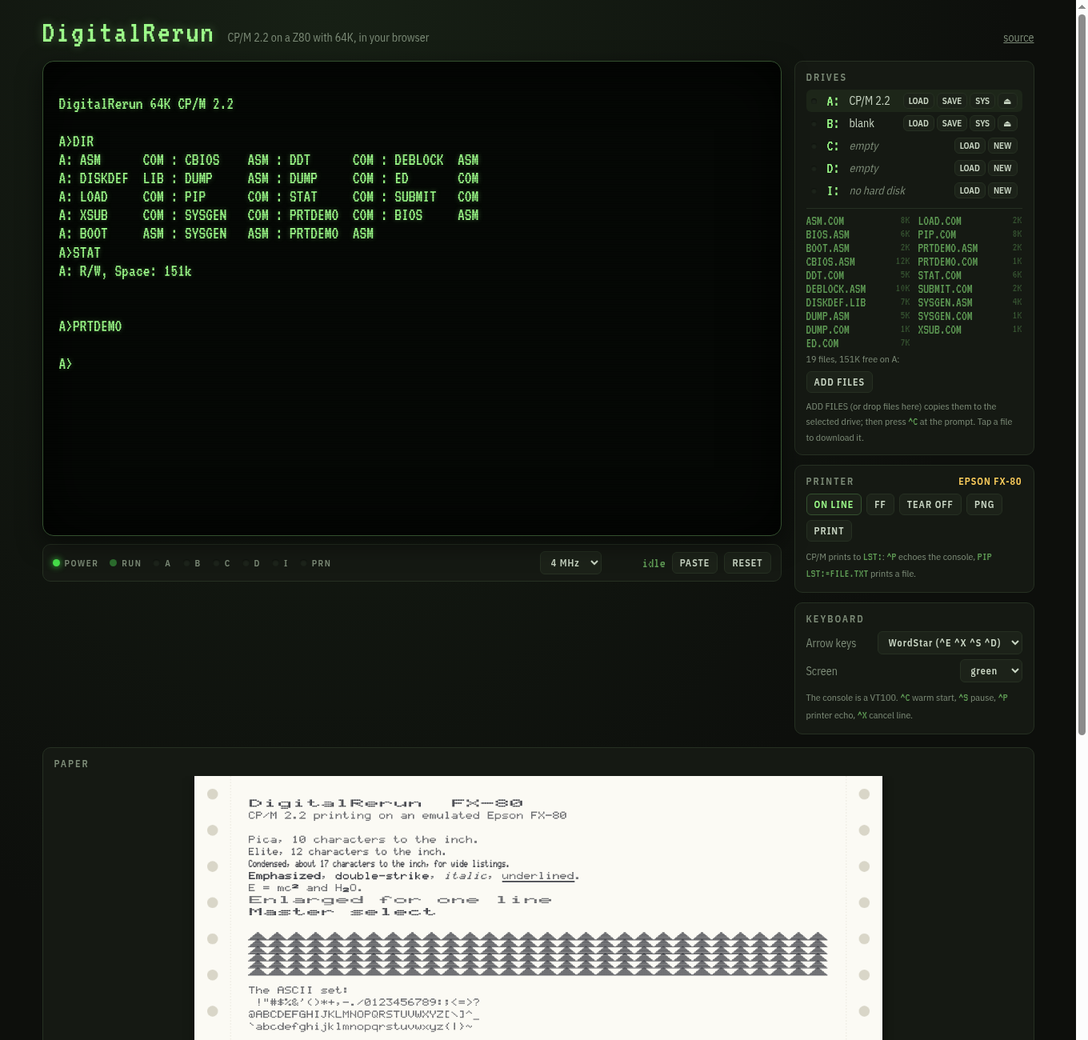
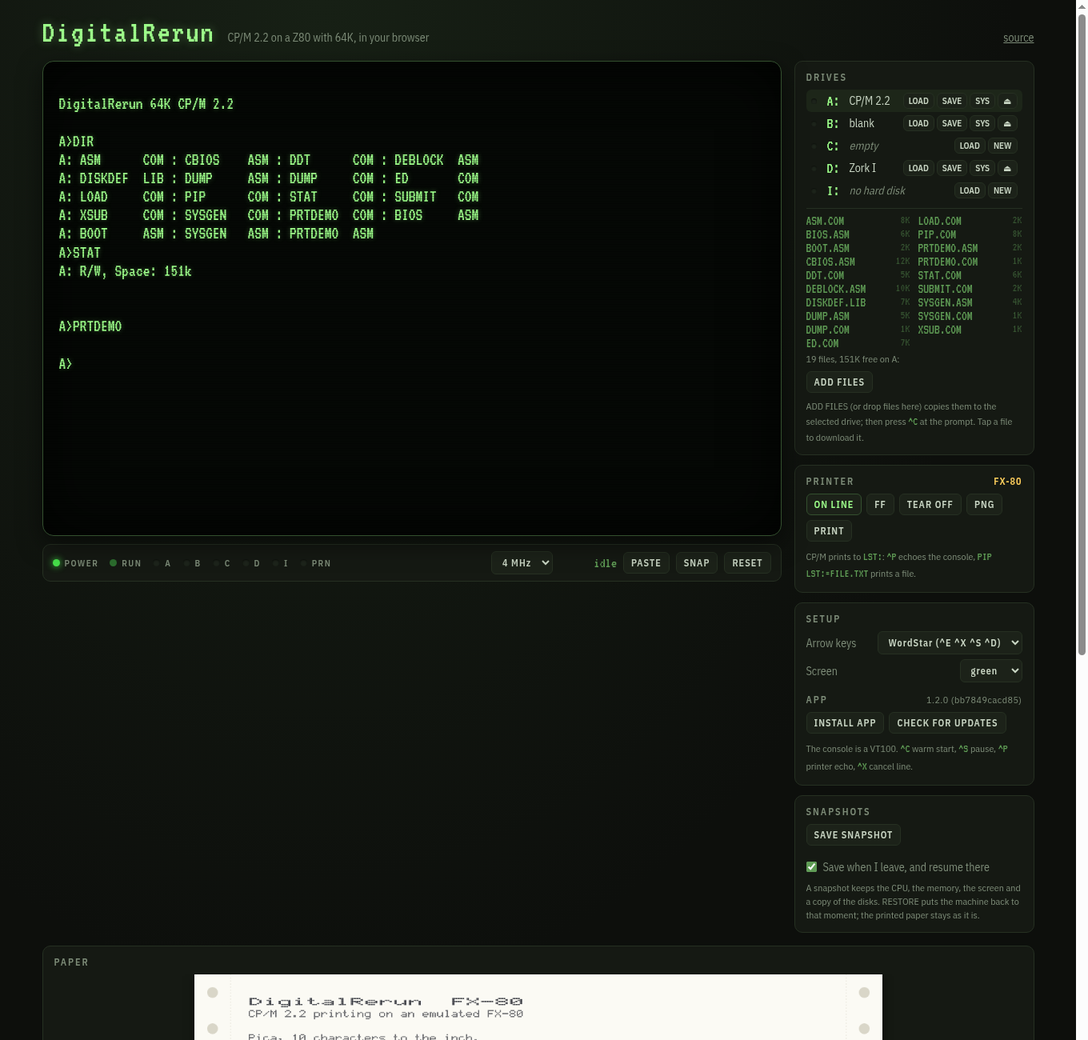
docs: a README that shows what DigitalRerun is, with every credit
A front page with badges, a boot-it-now link, what makes it special,
try-it steps, screenshots (desktop, Zork, phone), the technical detail,
and credits by name: Gary Kildall and Digital Research, DRDOS Inc. and
Bryan Sparks, Eric Smith, Gaby Chaudry, Molly Howell, Frank Cringle,
Tony Nicholson, Udo Munk, Michael Haardt, the authors of Zork and those
who freed it, Shawn Sijnstra, and the font designers; trademarks.

diff --git a/README.md b/README.md
@@ -1,65 +1,83 @@
+<div align="center">
+
 # DigitalRerun
 
+### CP/M 2.2, running again: a whole 1980s computer in your browser
+
 [![test](https://github.com/cstroie/DigitalRerun/actions/workflows/test.yml/badge.svg)](https://github.com/cstroie/DigitalRerun/actions/workflows/test.yml)
+[![live demo](https://img.shields.io/badge/live-cstroie.github.io%2FDigitalRerun-9dff8a?labelColor=0d0f0c)](https://cstroie.github.io/DigitalRerun/)
+[![licence: MIT](https://img.shields.io/badge/licence-MIT-ffcf5c?labelColor=0d0f0c)](LICENSE)
+![no dependencies](https://img.shields.io/badge/dependencies-none-c9d6c4?labelColor=0d0f0c)
+![offline PWA](https://img.shields.io/badge/PWA-works%20offline-c9d6c4?labelColor=0d0f0c)
 
-*Digital Research's CP/M, running again.* A CP/M 2.2 computer in the browser: a Z80 with 64K of RAM, the **original Digital Research CCP and BDOS**, booted by a real BIOS from the system tracks of an 8" disk, four floppy drives and a hard disk, a VT100 console and an Epson FX-80 printer that prints on fanfold paper. There are no dependencies and no build step.
+**[▶ Boot it now](https://cstroie.github.io/DigitalRerun/)**: no install, no sign-up, no download.
 
-**Live demo: https://cstroie.github.io/DigitalRerun/**
+![DigitalRerun: the CP/M prompt, the drives and a page from the dot matrix printer](docs/screenshot.png)
 
-![DigitalRerun running DIR and printing on the FX-80](docs/screenshot.png)
+</div>
 
-## Quick start
+DigitalRerun is a complete CP/M 2.2 machine that runs in a web page:
+- a **Z80 with 64K** of RAM;
+- **8" floppy drives** and a 4 MB hard disk;
+- a **VT100** console with a glowing phosphor screen;
+- an **FX-80 dot matrix printer** that strikes its dots onto fanfold paper, tractor holes and all.
 
-The machine boots from the CP/M 2.2 disk in A:. B: holds an empty disk.
+It is not a CP/M look-alike. The machine boots the **original CP/M 2.2 CCP and BDOS**, byte for byte as they shipped, read by a real BIOS from the system tracks of an 8" disk. Everything CP/M did then, it does here: `PIP`, `ED`, `ASM`, `DDT`, `SUBMIT`. You can even rebuild the BIOS inside CP/M with the 1980 recipe and boot the result.
+
+It is a single web page with no dependencies, no build step and no server. It installs as an app, works offline, and keeps your disks and your place between visits.
+
+## Why you'll like it
+
+- **The real thing.** The original CP/M 2.2 system, assembled from source by the project's own assembler into exactly the binaries on the 1979 distribution disk. A test checks every byte.
+- **Zork I comes with it.** The great underground empire is on drive D:, ready to play.
+- **A printer you can watch.** PRTDEMO shows off pica, elite, condensed, bold, italic, underlined, enlarged, super- and subscript text and bit-image graphics. Save the pages as PNG or PDF.
+- **Snapshots.** Freeze the whole machine (CPU, memory, screen and disks) and come back to that exact moment later, even mid-game. Leave the page and it resumes where you were.
+- **Bring your own software.** Drop `.COM` files or whole `.dsk` images onto a drive. Disks use the standard 8" format of cpmtools and z80pack.
+- **Hackable to the bone.** The BIOS, the boot loader and SYSGEN are short, commented 8080 sources on the boot disk. Change them with `ED`, assemble them with `ASM`, install them with `SYSGEN`.
+- **Phone friendly.** On a small screen the panels become tabs, ADD FILES replaces drag and drop, and the 80 columns stay readable.
+
+<div align="center">
+
+<img src="docs/zork.png" alt="Zork I running in DigitalRerun" width="640">
+&nbsp;
+<img src="docs/phone.png" alt="DigitalRerun on a phone" width="200">
+
+</div>
+
+## Try it
+
+Open **https://cstroie.github.io/DigitalRerun/**, click the screen and type:
 
 ```
-A>DIR
-A>STAT B:
-A>PIP B:=A:*.COM
-A>ED HELLO.ASM
-A>ASM HELLO
-A>LOAD HELLO
-A>PIP LST:=BOOT.ASM          (prints on the FX-80)
+A>DIR                        what is on the disk
+A>STAT B:                    room on the empty disk in B:
+A>PIP B:=A:*.COM             copy the programs to B:
+A>PRTDEMO                    print a page (see PAPER)
+A>D:                         to the game disk
+D>VEZZA ZORK1.Z3             and you are standing west of a white house
 ```
 
-The A: disk holds the DRI 2.2 tools: PIP, STAT, ED, ASM, LOAD, DDT, SUBMIT, XSUB and DUMP. It also holds SYSGEN and the sources of this machine's BIOS, loader and SYSGEN.
+A: holds the CP/M 2.2 tools (PIP, STAT, ED, ASM, LOAD, DDT, SUBMIT, XSUB, DUMP), SYSGEN, PRTDEMO, and the sources of the BIOS, the loader and SYSGEN. B: holds an empty disk, and D: holds Zork I.
 
-**D: holds Zork I.** Type `D:`, then `VEZZA ZORK1.Z3`. The game is Microsoft's 2025 MIT release of Infocom's Zork I, and [Vezza](https://gitlab.com/sijnstra1/vezza) is the Z-machine interpreter that runs it. Type `SAVE` and `RESTORE` in the game to keep your progress on the disk. The disk goes in D: the first time the app starts; after that D: is yours.
+`^C` warm-starts the system, `^S` pauses the output and `^P` echoes the console to the printer. In Zork, `SAVE` and `RESTORE` keep your progress on the disk.
 
-`^C` warm-starts the system, `^S` pauses output and `^P` echoes the console to the printer.
+## What's inside
 
-- **Drives.** ADD FILES (or dropping files on the DRIVES panel) copies them to the selected drive, then press `^C` so CP/M logs the disk in again. Click a file to download it. Text files (`.ASM`, `.TXT`, `.SUB` …) are converted between LF and CP/M's CR LF on the way. `LOAD` inserts a `.dsk` image, `SAVE` downloads one, and `NEW` inserts a blank, bootable disk. Disks are kept in the browser (IndexedDB) and are still there after a reload.
-- **Speed.** The CPU runs at 2, 4 (the default) or 8 MHz, or as fast as the browser allows. It costs nothing while CP/M waits for a key.
-- **Lights.** POWER, RUN (bright while working, dim while waiting for a key), one light per drive, and PRN.
-
-## Snapshots
-
-A snapshot is the whole machine at one moment: CPU, memory, screen, printer head, and a copy of every disk (so the memory and the disks agree). **SNAP** (next to RESET) or **SAVE SNAPSHOT** in SETUP keeps one, up to twelve. Each shows its time and the last line on the screen. **RESTORE** puts the machine back to that moment, even in the middle of a program or a game of Zork. The printed paper is not part of a snapshot.
-
-With *Save when I leave, and resume there* on (the default), the app also keeps one automatic snapshot. It is saved when the page is hidden or closed, when the window loses focus (at most every 15 seconds), and once a minute while the machine works. The next visit then continues where you left off, and RESET starts afresh. Snapshots are kept in the browser, like the disks.
-
-## As an app
-
-DigitalRerun is a PWA, so it can be installed and works offline:
-
-- **Install.** Where the browser can install apps (Chrome, Edge, Android), a banner offers **INSTALL**. On an iPhone or iPad the banner says how: Share, then *Add to Home Screen*. SETUP has an INSTALL APP button too. *Not now* hides the offer for 30 days, and nothing is offered when the app already runs installed.
-- **Offline.** On the first visit the service worker keeps every file of the app, the CP/M and Zork disks included. After that it starts with no network.
-- **Updates.** A new version downloads in the background and waits. A banner names it (*DigitalRerun 1.2.0 (3f9c…) is ready*) and offers **RELOAD**. Reloading restarts the machine, but your disks are saved first. The app checks for a new version when it comes back to the screen, when the network returns, and every hour. SETUP shows the running version and has CHECK FOR UPDATES.
-
-Releasing a change: raise `VERSION` in [`js/version.js`](js/version.js), then run `node tools/stamp.js`. The stamp is a hash of every file the service worker keeps, and a test fails when it is stale, so no change can ship under an old version's cache.
-
-## The machine
+### The machine
 
 | | |
 |---|---|
-| CPU | Z80 ([Z80.js](https://github.com/DrGoldfire/Z80.js), passes ZEXDOC) |
+| CPU | Z80, passes the ZEXDOC instruction exerciser, at 2, 4 or 8 MHz or as fast as the browser goes. It costs nothing while CP/M waits for a key |
 | Memory | 64K RAM. CCP at `E400h`, BDOS at `EC00h`, BIOS at `FA00h` |
-| A: to D: | 8" IBM 3740 SSSD: 77 tracks, 26 sectors of 128 bytes, skew 6, 2 system tracks, 241K. The same images work with cpmtools (`ibm-3740`) and z80pack |
-| I: | 4 MB hard disk, z80pack geometry (255 tracks × 128 sectors) |
-| Console | VT100 subset, 80 × 24 |
-| Printer | Epson FX-80 on `LST:` |
+| A: to D: | 8" single-sided, single-density: 77 tracks of 26 × 128-byte sectors, skew 6, 2 system tracks, 241K. Compatible with cpmtools (`ibm-3740`) and z80pack |
+| I: | 4 MB hard disk, z80pack geometry |
+| Console | VT100 subset, 80 × 24, green, amber or white phosphor; WordStar or VT100 arrow keys |
+| Printer | FX-80 compatible, on `LST:` |
+| Lights | POWER, RUN (bright while working, dim while waiting), one per drive, PRN |
 
-I/O ports. The disk controller ports are z80pack's:
+At reset, the "boot ROM" loads sector 1 of track 0 into `0000h` and jumps there. That sector is [`system/boot.asm`](system/boot.asm), which reads CCP, BDOS and BIOS from the system tracks and starts the BIOS. Nothing about CP/M is built into the emulator: the system is whatever the boot disk holds.
+
+The I/O ports follow z80pack for the disk controller:
 
 | Port | In | Out |
 |---|---|---|
@@ -73,11 +91,20 @@ I/O ports. The disk controller ports are z80pack's:
 | 13 | | command: 0 read, 1 write |
 | 14 | status of the last command (0 = ok) | |
 
-At reset, the "boot ROM" loads sector 1 of track 0 into `0000h` and jumps there. That sector is [`system/boot.asm`](system/boot.asm), which reads CCP, BDOS and BIOS from the system tracks and jumps to the BIOS. Nothing about CP/M is built into the emulator: the system is whatever the boot disk holds.
+### Drives and files
 
-## Changing the system
+- **ADD FILES** (or dropping files on the DRIVES panel) copies them to the selected drive. Then press `^C`, so CP/M logs the disk in again.
+- Click a file to download it. Text files (`.ASM`, `.TXT`, `.SUB` …) are converted between LF and CP/M's CR LF on the way in and out.
+- Each drive has these buttons:
+  - **LOAD** inserts a `.dsk` image;
+  - **SAVE** downloads one;
+  - **NEW** inserts a blank, bootable disk;
+  - **SYS** writes a system tracks image onto a disk.
+- Disks are kept in the browser (IndexedDB), and they are still there tomorrow.
 
-The BIOS ([`system/bios.asm`](system/bios.asm)) is 8080 code in the syntax of DRI's `ASM.COM`. You can change it inside CP/M, the way it was done in 1980:
+### Changing the system, the 1980 way
+
+The BIOS ([`system/bios.asm`](system/bios.asm)) is 8080 code in the syntax of CP/M's own `ASM.COM`. Change it inside CP/M:
 
 ```
 A>ED BIOS.ASM                 change it
@@ -91,17 +118,16 @@ A>DDT CPM64.COM
 A>SYSGEN                      source RETURN (use memory), destination A
 ```
 
-Then press RESET. From outside, the SYS button of a drive writes a system tracks image (up to 6656 bytes: the loader at 0, CCP at 80h, BDOS at 880h, BIOS at 1680h, like `system/cpm22.bin`) onto the disk in it. In the SYSGEN image the loader is at `0900h`, the CCP at `0980h`, the BDOS at `1180h` and the BIOS at `1F80h`, so the same recipe can also replace the CCP or the BDOS (ZCPR, ZSDOS, …) with their own offsets.
+Then press RESET and your BIOS boots. In the SYSGEN image the loader sits at `0900h`, the CCP at `0980h`, the BDOS at `1180h` and the BIOS at `1F80h`, so the same recipe also swaps in another CCP or BDOS (ZCPR, ZSDOS …).
 
-On the host side, `node tools/build.js` assembles `system/*.asm` and the DRI sources with [`js/asm8080.js`](js/asm8080.js), a two-pass 8080 assembler for the DRI ASM and Macro Assembler AS dialects. It then writes `system/cpm22.bin` (the system tracks) and `disks/cpm22.dsk`. The CCP and BDOS it produces are byte for byte Digital Research's: a test checks them against the binaries on the CP/M 2.2 distribution disk.
+On the host, `node tools/build.js` assembles everything with [`js/asm8080.js`](js/asm8080.js), a two-pass 8080 assembler that reads both the ASM.COM and the Macro Assembler AS dialects. It writes `system/cpm22.bin` (the system tracks), `disks/cpm22.dsk` and `disks/zork1.dsk`.
 
-## The printer
+### The printer
 
-The FX-80 strikes dots from its own 9-pin font onto 9½" fanfold sheets with tractor holes. You can download the sheets as PNG, or print them (or save as PDF) from the PRINTER panel. TEAR OFF starts a fresh sheet.
+The FX-80 strikes dots from its own 9-pin font onto 9½" fanfold sheets. From the PRINTER panel you can download the sheets as PNG or print them (or save as PDF), and TEAR OFF starts a fresh sheet. It understands:
 
-It understands:
 - CR, LF, FF, BS, HT;
-- SO/DC4 (enlarged for one line) and SI/DC2 (condensed);
+- SO/DC4 (enlarged for one line), SI/DC2 (condensed);
 - `ESC E/F` emphasized, `ESC G/H` double-strike, `ESC 4/5` italic, `ESC -` underline;
 - `ESC W` enlarged, `ESC S/T` super- and subscript, `ESC M/P` elite and pica, `ESC !` master select;
 - `ESC 0 1 2 3 A J` line spacing;
@@ -113,47 +139,92 @@ It understands:
 
 Other sequences are skipped together with their parameters.
 
-## Files
+### Snapshots
+
+A snapshot is the whole machine at one moment: CPU, memory, screen, printer head, and a copy of every disk, so memory and disks always agree.
+
+- **SNAP** (next to RESET) or **SAVE SNAPSHOT** (in SETUP) keeps one, up to twelve. Each shows its time and the last line on the screen.
+- **RESTORE** goes back to that moment, even in the middle of a program or a game.
+- With *Save when I leave, and resume there* on (the default), an automatic snapshot is also kept. It is saved when the page is hidden or closed, when the window loses focus, and once a minute while the machine works. The next visit continues where you left off.
+
+The printed paper is not part of a snapshot.
+
+### As an app
+
+DigitalRerun is a progressive web app:
+
+- **Install.** Where the browser can install apps, a banner offers INSTALL. On an iPhone or iPad it explains *Share, then Add to Home Screen*.
+- **Offline.** After the first visit everything is kept, the disks included, and the app starts with no network.
+- **Updates.** A new version downloads in the background. A banner names it and offers RELOAD; your disks are saved first. SETUP shows the running version and has CHECK FOR UPDATES.
+
+## For developers
 
 ```
-index.html, css/, js/app.js    the page
-js/z80.js                      the Z80 core (vendored, MIT)
-js/machine.js                  RAM, ports, run loop, boot ROM
-js/devices/fdc.js, serial.js   disk controller, console and printer ports
-js/terminal.js                 VT100 terminal and its view
-js/fx80.js, js/font9.js        FX-80 printer, paper view, dot-matrix font
-js/cpmfs.js                    CP/M file system on a disk image (outside the machine)
-js/asm8080.js                  8080 assembler (DRI ASM / Macro Assembler AS syntax)
-js/storage.js                  disks, settings and snapshots in IndexedDB
-js/snapshot.js                 take and restore a snapshot of the whole machine
-js/version.js, js/pwa.js, sw.js   version and build stamp; install, update and offline (PWA)
-tools/stamp.js                 write the build stamp after a change
-system/                        loader, BIOS, SYSGEN sources; dri/ CCP and BDOS sources
-disks/cpm22/, cpm22.dsk        the files of the boot disk and the disk image
-disks/zork1/, zork1.dsk        the Zork I game disk (D:) and its files
-tools/build.js                 assemble the system and make the boot disk
-tools/font9.txt, font9.js      the printer font as dot pictures, and its generator
+git clone https://github.com/cstroie/DigitalRerun.git
+cd DigitalRerun
+python3 -m http.server 8000         # any static server; then open http://localhost:8000
+node --test                         # 38 tests: assembler, file system, terminal, printer, CP/M, snapshots, PWA
+ZEX=1 node --test test/zex.test.js  # ZEXDOC on the Z80 core (a few minutes; ZEX=all adds ZEXALL)
 ```
 
-## Tests
+The machine tests boot the real disk and type at the CCP. They cover:
+- `DIR`, `STAT`, `PIP`, `ASM`, printing and `SYSGEN`;
+- the whole change-the-BIOS recipe above;
+- Zork;
+- restoring snapshots.
+
+Releasing a change: raise `VERSION` in [`js/version.js`](js/version.js) and run `node tools/stamp.js`. The build stamp is a hash of every file the app keeps offline, and a test fails when it is stale.
 
 ```
-node --test                          assembler, file system, terminal, printer, booting CP/M
-ZEX=1 node --test test/zex.test.js   ZEXDOC on the Z80 core (a few minutes; ZEX=all adds ZEXALL)
+index.html, css/, js/app.js       the page
+js/z80.js                         the Z80 core (vendored)
+js/machine.js                     RAM, ports, run loop, boot ROM, machine state
+js/devices/fdc.js, serial.js      disk controller, console and printer ports
+js/terminal.js                    VT100 terminal and its view
+js/fx80.js, js/font9.js           printer, paper view, dot matrix font
+js/cpmfs.js                       CP/M file system on a disk image, from outside the machine
+js/asm8080.js                     8080 assembler
+js/storage.js                     disks, settings and snapshots in IndexedDB
+js/snapshot.js                    take and restore a snapshot
+js/version.js, js/pwa.js, sw.js   version and build stamp; install, updates, offline
+system/                           loader, BIOS, SYSGEN, PRTDEMO; cpm22/: the original CCP and BDOS sources
+disks/cpm22/, disks/zork1/        the files of the boot disk and the game disk, and their images
+tools/build.js                    assemble the system, make the disks
+tools/stamp.js                    write the build stamp
+tools/font9.txt, font9.js         the printer font as dot pictures, and its generator
 ```
 
-The machine tests boot the real disk and type at the CCP. They cover DIR, STAT, PIP, ASM, printing and SYSGEN, and the whole change-the-BIOS recipe above.
+## Credits
 
-## Credits and licences
+DigitalRerun stands on the work of many people, with thanks to all of them.
 
-The code of this project is under the MIT licence ([LICENSE](LICENSE)).
+**CP/M**
+- **Gary Kildall** created CP/M at **Digital Research, Inc.** in Pacific Grove, California. This project is named in its honour: Digital Research's system, running again.
+- **DRDOS, Inc.** and its president **Bryan Sparks** granted everyone the right to use, distribute and modify CP/M and its derivatives (2022, at **Scott Chapman**'s request). See [LICENSE-DRI](LICENSE-DRI).
+- **Eric Smith** reformatted the CCP and BDOS sources for cross-assembly ([brouhaha/cpm22](https://github.com/brouhaha/cpm22)); they are in `system/cpm22/`.
+- **Gaby Chaudry**'s [Unofficial CP/M Web Site](http://www.cpm.z80.de/) keeps CP/M's history, its sources and the licence. It is where the CP/M 2.2 distribution files on A: come from.
 
-- **CP/M 2.2** (CCP, BDOS, the utilities): Digital Research. It is redistributed under the 2022 permission from DRDOS, Inc. ([LICENSE-DRI](LICENSE-DRI)). The sources are [Eric Smith's reformatting](https://github.com/brouhaha/cpm22) of DRI's.
-- **Z80.js**: Molly Howell and contributors, MIT.
-- **Zork I**: Infocom. Microsoft released it under the MIT licence in 2025 ([historicalsource/zork1](https://github.com/historicalsource/zork1)); `disks/zork1/ZORK1.Z3` is that repository's compiled story file. ZORK is a trademark, which the licence does not cover.
-- **Vezza**: Shawn Sijnstra's Z-machine interpreter for CP/M, GPL-2.0-or-later ([gitlab.com/sijnstra1/vezza](https://gitlab.com/sijnstra1/vezza)). `disks/zork1/VEZZA.COM` is its `vezza-C2` build, unchanged.
-- **ZEXDOC/ZEXALL**: Frank Cringle (GPL). They are downloaded by the test and not shipped.
-- The I/O port layout and the disk formats follow Udo Munk's [z80pack](https://github.com/udo-munk/z80pack). The 8" format is the IBM 3740 single-sided, single-density layout (cpmtools' `ibm-3740`).
-- The printer emulates the Epson FX-80 from its published command set. Its 9-pin font is drawn for this project and is not copied from Epson's character ROM.
+**Emulation**
+- **Molly Howell** and contributors wrote [Z80.js](https://github.com/DrGoldfire/Z80.js), the Z80 core (MIT).
+- **Frank Cringle** wrote the ZEXDOC/ZEXALL instruction exercisers (GPL). **Tony Nicholson** keeps them at [agn453/ZEXALL](https://github.com/agn453/ZEXALL). They are downloaded by the test and not shipped.
+- **Udo Munk**'s [z80pack](https://github.com/udo-munk/z80pack) set the I/O port layout and the disk formats, and **Michael Haardt**'s cpmtools set the format names.
+- The 8" format is the IBM 3740 single-sided, single-density layout.
+- The printer follows the published command set of the **Epson FX-80**. Its 9-pin font was drawn for this project, not copied from Epson's character ROM.
 
-**Trademarks.** CP/M was created by Gary Kildall at Digital Research, Inc.; the rights now belong to DRDOS, Inc. Epson and FX-80 are trademarks of Seiko Epson Corporation. Z80 is a trademark of Zilog, Inc. ZORK is a trademark of its owner; Zork was written by Infocom, Inc., and released as open source by Microsoft in 2025. IBM is a trademark of International Business Machines Corporation. Names are used only to say what DigitalRerun emulates or contains. DigitalRerun is not affiliated with, or endorsed by, any of these companies.
+**Zork I**
+- *Zork I: The Great Underground Empire* is by **Marc Blank** and **Dave Lebling** at **Infocom, Inc.**, from the original MIT *Zork* by **Tim Anderson, Marc Blank, Bruce Daniels and Dave Lebling**.
+- In 2025 **Microsoft**'s Open Source Programs Office, **Team Xbox** and **Activision**, working with **Jason Scott** of the Internet Archive, released it under the MIT licence ([historicalsource/zork1](https://github.com/historicalsource/zork1)). `disks/zork1/ZORK1.Z3` is that repository's compiled story file.
+- **Shawn Sijnstra** wrote [Vezza](https://gitlab.com/sijnstra1/vezza), the Z-machine interpreter for CP/M that plays it (GPL-2.0-or-later). `disks/zork1/VEZZA.COM` is its `vezza-C2` build, unchanged.
+
+**Fonts**
+- [VT323](https://fonts.google.com/specimen/VT323) by **Peter Hull**, and [IBM Plex Sans Condensed](https://github.com/IBM/plex) by **Mike Abbink** and **Bold Monday**, both under the SIL Open Font License.
+
+## Licence
+
+DigitalRerun's own code is under the [MIT licence](LICENSE). The parts that come from elsewhere keep their own licences, listed in [LICENSE](LICENSE):
+- CP/M under the DRDOS, Inc. grant ([LICENSE-DRI](LICENSE-DRI));
+- Z80.js under MIT;
+- Zork I under MIT;
+- Vezza under GPL-2.0-or-later (its licence is in `disks/zork1/`).
+
+**Trademarks.** CP/M was created by Gary Kildall at Digital Research, Inc.; the rights now belong to DRDOS, Inc. Epson and FX-80 are trademarks of Seiko Epson Corporation. Z80 is a trademark of Zilog, Inc. IBM and IBM Plex are trademarks of International Business Machines Corporation. ZORK is a trademark of its owner. Names are used only to say what DigitalRerun emulates or contains. DigitalRerun is not affiliated with, or endorsed by, any of these companies.
